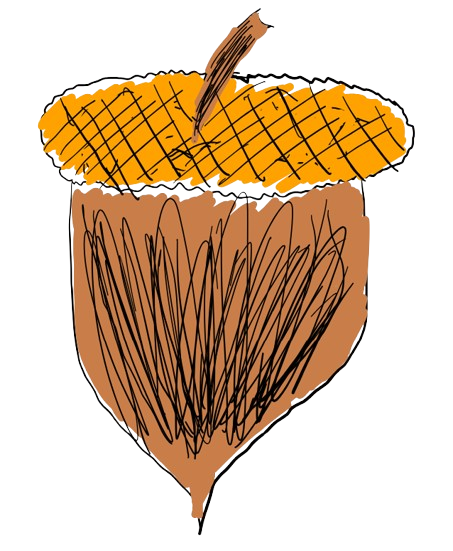
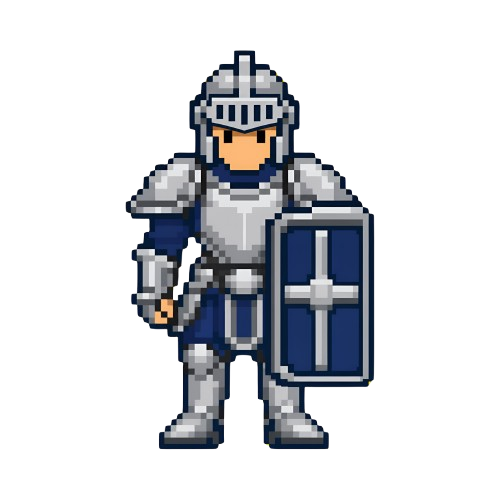
Prototype of game

diff --git a/swing-cli/src/combat.java b/swing-cli/src/combat.java
@@ -1,0 +1,56 @@
+import java.awt.Rectangle;
+
+/**
+ * combat.java - All attacks and hits in the game happen here.
+ * Player -> enemies (light attack) and enemies -> player (contact damage).
+ */
+public class combat {
+
+    // How far the light attack reaches (enemies circle at 120, so keep this bigger)
+    public static final int ATTACK_RANGE = 160;
+
+    // ===== PLAYER ATTACKS =====
+
+    /** Returns the player's damage, or 0 if their weapon is still on cooldown. */
+    public static int tryPlayerAttack(player user) {
+        items.Weapon weapon = user.getWeapon();
+        if (!weapon.canAttack()) return 0;
+        weapon.markAttack();
+        return user.getAttackDamage();
+    }
+
+    /** Player's light attack: damages every living enemy within ATTACK_RANGE. */
+    public static void playerAttack(player user, enemies[] list) {
+        int dmg = tryPlayerAttack(user);
+        if (dmg == 0) return;
+
+        for (enemies e : list) {
+            if (e == null || !e.isAlive()) continue;
+            if (distance(user.getBounds(), e.getBounds()) <= ATTACK_RANGE) {
+                e.takeDamage(dmg);
+            }
+        }
+    }
+
+    // ===== ENEMY ATTACKS =====
+
+    /** Enemies touching the player drain its light (each enemy has its own cooldown). */
+    public static void enemyContact(player user, enemies[] list) {
+        for (enemies e : list) {
+            if (e == null || !e.isAlive()) continue;
+            if (e.getBounds().intersects(user.getBounds()) && e.canHit()) {
+                user.takeDamage(e.getDamage());
+                e.markHit();
+            }
+        }
+    }
+
+    // ===== HELPERS =====
+
+    /** Distance between the centers of two boxes. */
+    public static double distance(Rectangle a, Rectangle b) {
+        double dx = b.getCenterX() - a.getCenterX();
+        double dy = b.getCenterY() - a.getCenterY();
+        return Math.sqrt(dx * dx + dy * dy);
+    }
+}

diff --git a/swing-cli/src/player.java b/swing-cli/src/player.java
@@ -12,7 +12,7 @@ public class player {
     // Position & size
     private int x, y;
     private int width = 32, height = 32;
-    private int currNode = 5;
+    private int currNode = 0;
 
     // Movement
     private int baseSpeed = 5;
@@ -114,6 +114,22 @@ public class player {
     public boolean isAlive() { return health > 0; }
 
     // ===== ATTACK =====
+    public void attackEnemies(enemies[] list, int range) {
+        int dmg = attack();
+        if (dmg == 0) return;
+        Rectangle me = getBounds();
+        for (enemies e : list) {
+            if (e == null || !e.isAlive()) continue; {
+                Rectangle r = e.getBounds();
+                double dx = r.getCenterX() - me.getCenterX();
+                double dy = r.getCenterY() - me.getCenterY();
+                if(Math.sqrt(dx * dx + dy * dy) <= range) {
+                    e.takeDamage(dmg);
+                }
+            }
+        }
+    }
+
     public int getAttackDamage() {
         return baseAttack + equippedWeapon.getDamage() + bonusDamage;
     }

diff --git a/swing-cli/src/run.java b/swing-cli/src/run.java
@@ -176,17 +176,15 @@ public class run{
         
         node[] map = new node[10];
         Random rng = new Random();
-        Rectangle area = new Rectangle(screen.width, screen.height);
+        Rectangle area = new Rectangle(100, 100, screen.width - 200, screen.height - 200);
         for (int i = 0; i < map.length; i++) {
-            map[i].init(1, 5, area, rng);
+            map[i] = new node();
+            map[i].init(i, 5, area, rng);
         }
+        map[0].addAndShow(game); // put enemies on screen
 
-        
         new javax.swing.Timer(16, e -> {
             map[user.getNode()].update(user.getX(), user.getY()); //update node
-            for(int i = 0; i < 5; i++){
-                game.add(map[user.getNode()].getLabelE(i));
-            }
             user.update();
             if(user.getX() > screen.width){
                 if(user.getNode() == 9){

diff --git a/swing-cli/src/node.java b/swing-cli/src/node.java
@@ -8,7 +8,7 @@ public class node{
     private int settingId;
     private enemies[] eList;
 
-    node(int settingId, int enemyCount, Rectangle area, Random rng) {
+    public void init(int settingId, int enemyCount, Rectangle area, Random rng) {
         this.settingId = settingId;
         eList = new enemies[enemyCount];
         for(int i = 0; i < eList.length; i++) {
@@ -23,14 +23,13 @@ public class node{
         }
     }
 
- 
-
-
     public void update(int userX, int userY){
         for(int i = 0; i < eList.length; i++){
             eList[i].increment(userX, userY); 
         }
     }
+
+    public enemies[] getEnemies(){ return eList; }
 
     public JLabel getLabelE(int i){
         return eList[i].getLabel();
